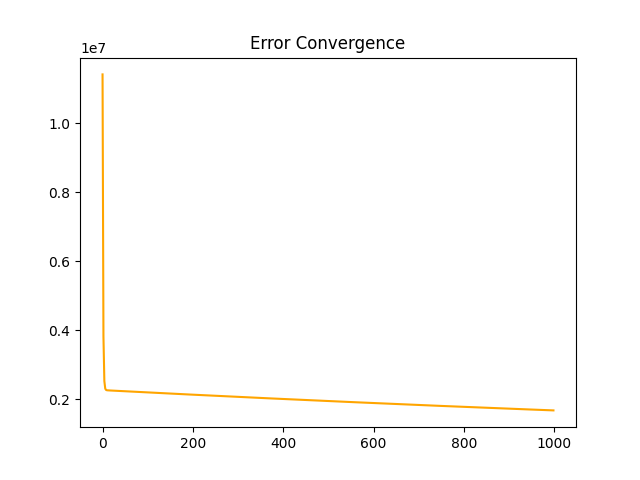
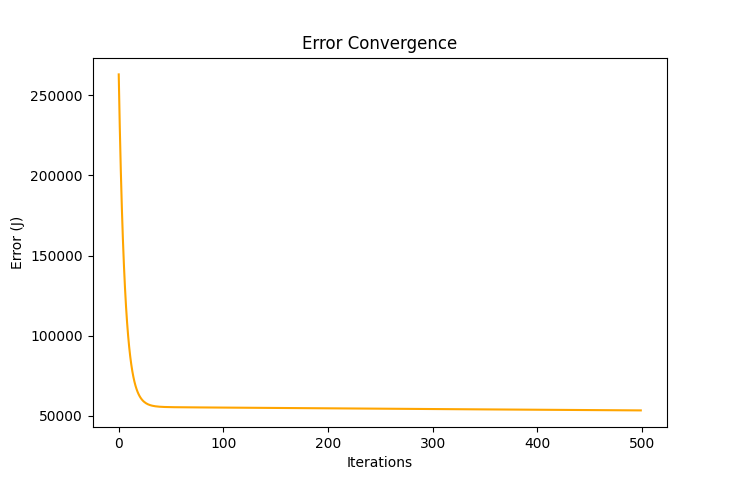
update: python version reads a training data file

diff --git a/week3/regression.py b/week3/regression.py
@@ -1,14 +1,21 @@
 import matplotlib.pyplot as plt
 import numpy as np
 
-x = [9, 12, 24, 45, 10.5]
-y = [1200, 1520, 2300, 3400, 1370]
+# example training data from file
+f = open("dataset.txt", "r")
+lines = f.readlines()
+x = [float(line.split(',')[0]) for line in lines]
+y = [float(line.split(',')[1]) for line in lines]
+
+# example training data
+#x = [9, 12, 24, 45, 10.5]
+#y = [1200, 1520, 2300, 3400, 1370]
 
 fig = plt.figure()
 fig.add_subplot()
 ax1 = plt.gca()
 
-ax1.scatter(x, y, s=100, marker="o", linewidths=2)
+ax1.scatter(x, y, s=100, color='yellow',marker="o", linewidths=1, edgecolor='black')
 
 a0 = 0.0
 a1 = 0.0
@@ -38,7 +45,9 @@ while iter <= iterMax:
     iter += 1
 
 ax1.plot(x, h, color='g')
-ax1.set_title('Linear Regression')
+ax1.set_title('Univariate Linear Regression')
+ax1.set_ylabel("Price")
+ax1.set_xlabel("Area")
 
 fig2 = plt.figure()
 fig2.add_subplot()
@@ -46,14 +55,16 @@ ax2 = plt.gca()
 
 # for convergence plot
 min = 0.0
-max = 1000.0
+max = iterMax * 1.0
 xs = list(np.arange(min, max, max / len(conv)))
 ax2.plot(xs, conv, color='orange')
 ax2.set_title('Error Convergence')
+ax2.set_ylabel("Error (J)")
+ax2.set_xlabel("Iterations")
 
 # plot test data and output
 input_data = 20
 output_h = a0 + a1 * input_data
-ax1.scatter([input_data], [output_h], marker='o', color='r', s=100, linewidths=2, zorder=100)
+ax1.scatter([input_data], [output_h], marker='o', color='magenta', s=100, linewidths=1, zorder=100, edgecolor='black')
 
 plt.show()
